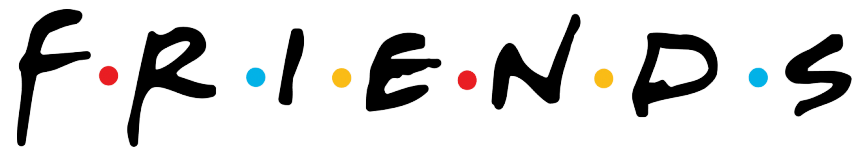
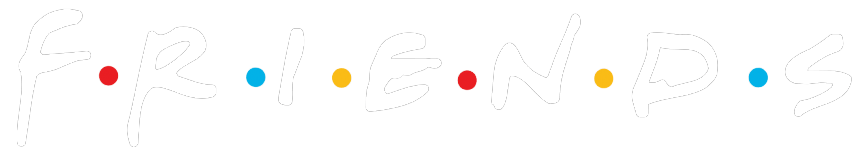
Estilo

diff --git a/P3/style.css b/P3/style.css
@@ -1,13 +1,12 @@
 /* Fondo de la página */
 body {
-    background-color: white;
+    background-color: black;
 }
 #titulo{
-  margin-left: auto;
-  margin-right: auto;
+  justify-content:center
 }
 
 /* Estilo para el canvas: Negro */
 #canvas {
-  background-color: black;
+  background-color: grey;
 }
